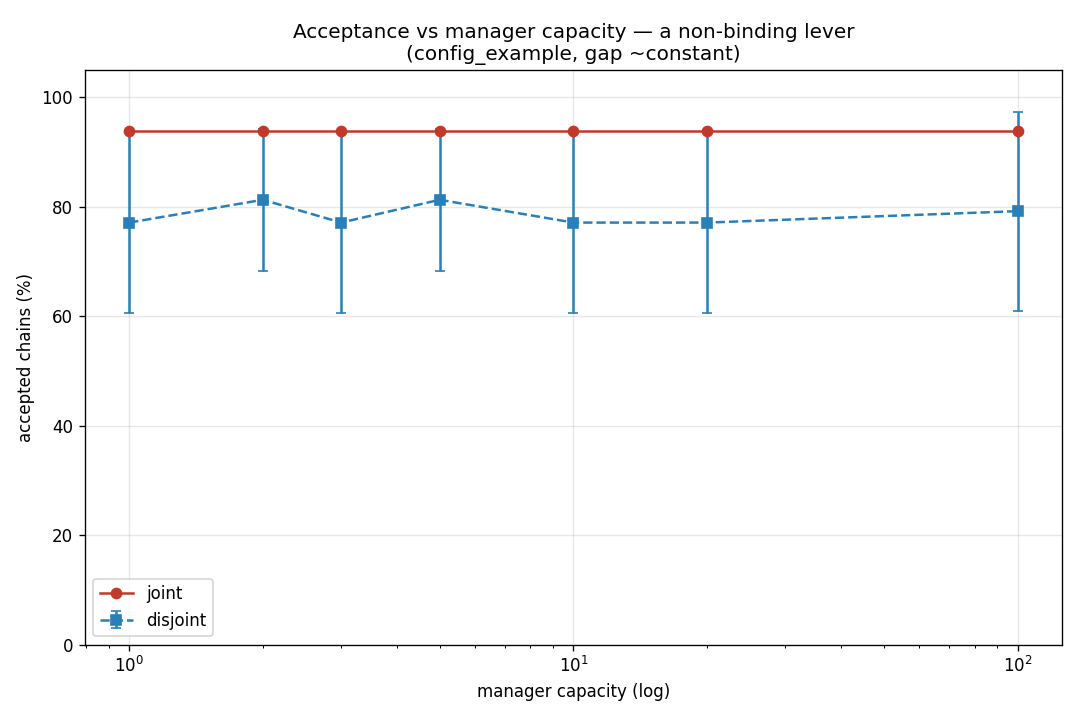
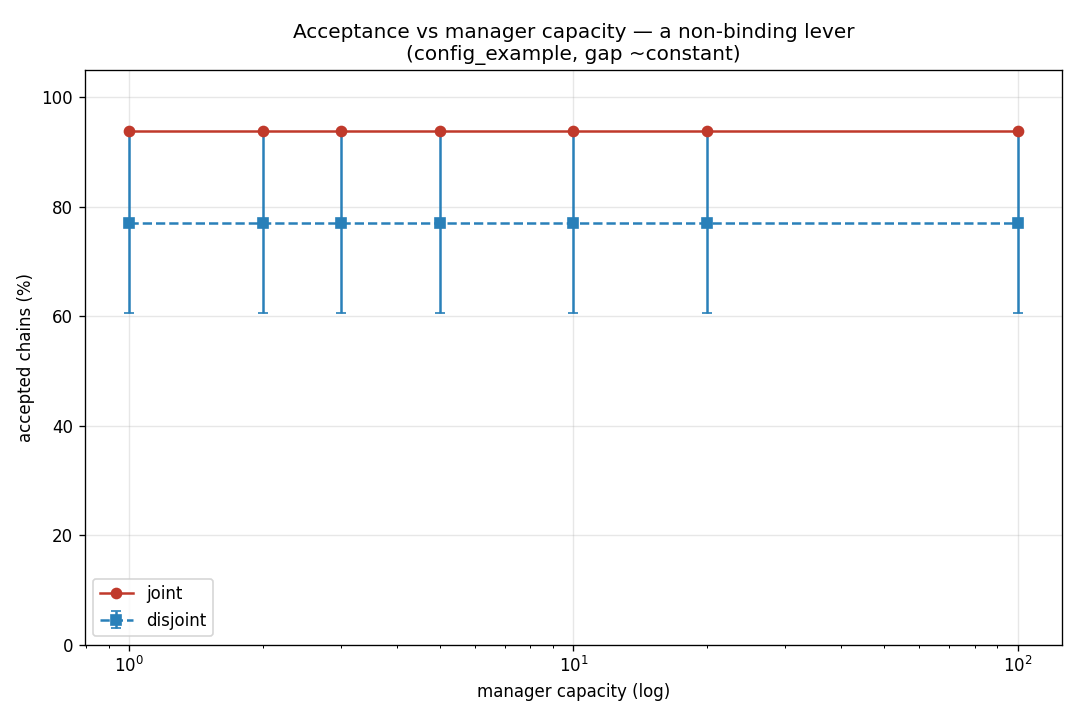
analysis: regenerate sweep artifacts to match the documented command
The committed sweep CSVs/PNGs/SWEEP.md were generated from an older code state
and no longer reproduced via 'uv run --group notebook python
analysis/sensitivity_sweep.py'. Re-run against the current src/jsd_mp package so
the shipped artifacts equal the documented reproduce command. The refreshed
capacity series is now a flat 77.1%/16.7pp, which cleanly supports the
'capacity is a non-binding lever' negative control (the old data wobbled).

diff --git a/analysis/SWEEP.md b/analysis/SWEEP.md
@@ -16,7 +16,7 @@ Same network, same chains; the only change is whether the per-node `notManagerNo
 |      7 |     87.5 |         75.0 |       12.5 |          87.5 |         0.0 |
 |      8 |     78.1 |         73.4 |        4.7 |          78.1 |         0.0 |
 |      9 |     70.8 |         69.4 |        1.4 |          70.8 |         0.0 |
-|     10 |     63.8 |         62.5 |        1.2 |          63.8 |         0.0 |
+|     10 |     63.8 |         63.8 |        0.0 |          63.8 |         0.0 |
 |     12 |     54.2 |         54.2 |        0.0 |          54.2 |         0.0 |
 
 ## 2. Manager capacity — a non-binding lever (negative control)
@@ -26,12 +26,12 @@ Varying manager capacity over two orders of magnitude barely moves the gap: on t
 |   capacity |   joint% |   disj% |   gap(pp) |
 |-----------:|---------:|--------:|----------:|
 |          1 |     93.8 |    77.1 |      16.7 |
-|          2 |     93.8 |    81.2 |      12.5 |
+|          2 |     93.8 |    77.1 |      16.7 |
 |          3 |     93.8 |    77.1 |      16.7 |
-|          5 |     93.8 |    81.2 |      12.5 |
+|          5 |     93.8 |    77.1 |      16.7 |
 |         10 |     93.8 |    77.1 |      16.7 |
 |         20 |     93.8 |    77.1 |      16.7 |
-|        100 |     93.8 |    79.2 |      14.6 |
+|        100 |     93.8 |    77.1 |      16.7 |
 
 ## Takeaway
 The joint formulation pays off **only when a management constraint actually binds** (here `notManagerNodes`; on the full topologies, manager radius — see `SUMMARY.md`). When management is slack, or when the network is so loaded that raw VNF resources are the binding constraint, joint and disjoint converge. This is the controllable, mechanistic version of the conditional result found in the corrected joint-vs-disjoint analysis.